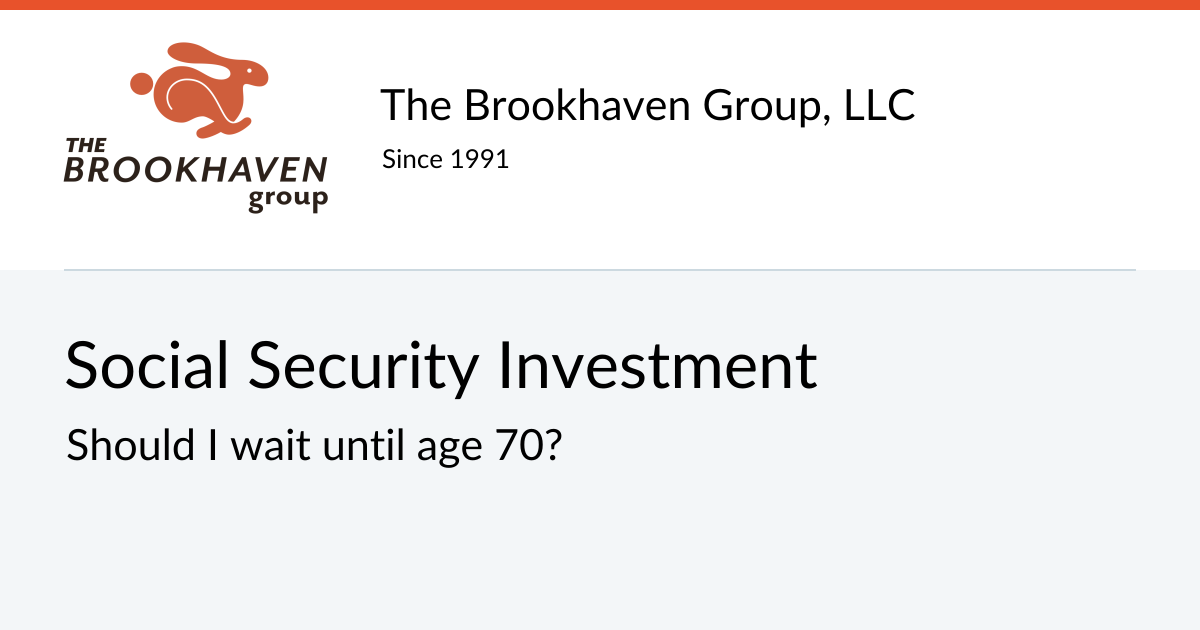
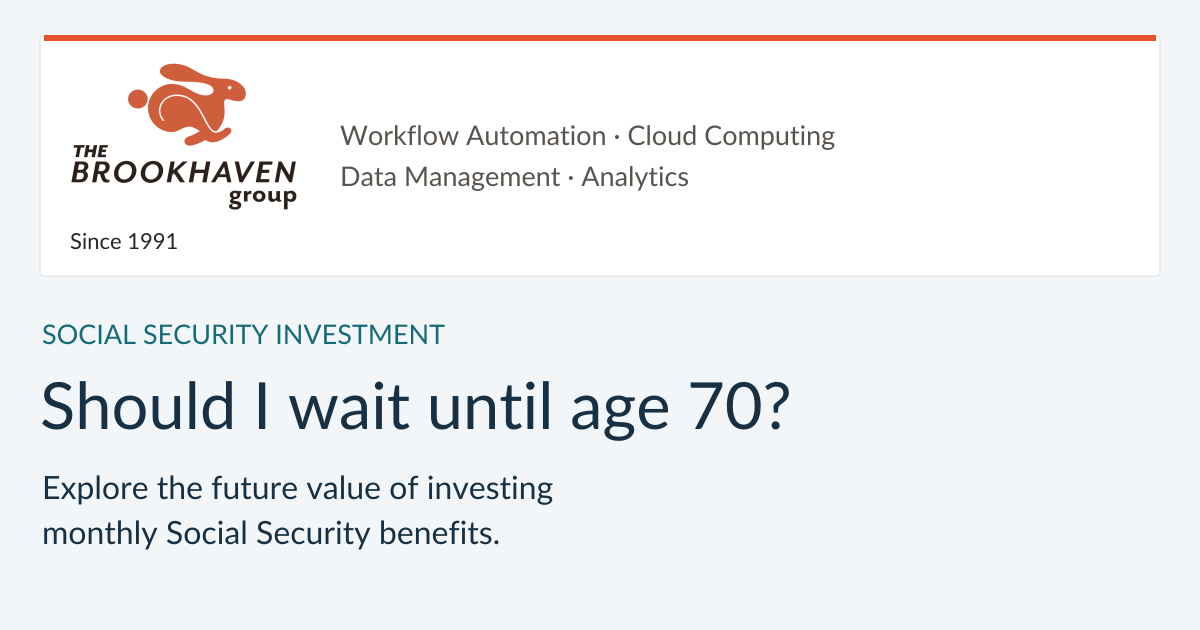
Fixing social preview

diff --git a/index.html b/index.html
@@ -11,7 +11,7 @@
   <meta property="og:site_name" content="The Brookhaven Group">
   <meta property="og:title" content="The Brookhaven Group, LLC">
   <meta property="og:description" content="Compare investing Social Security benefits starting at 67 versus 70. Explore before-tax and after-tax results with an interactive calculator and report.">
-  <meta property="og:image" content="https://thebrookhavengroup.github.io/ssa/web/social-preview.png">
+  <meta property="og:image" content="https://thebrookhavengroup.github.io/ssa/web/social-preview.png?v=2">
   <meta property="og:image:type" content="image/png">
   <meta property="og:image:width" content="1200">
   <meta property="og:image:height" content="630">
@@ -19,7 +19,7 @@
   <meta name="twitter:card" content="summary_large_image">
   <meta name="twitter:title" content="The Brookhaven Group, LLC">
   <meta name="twitter:description" content="Compare investing Social Security benefits starting at 67 versus 70. Explore before-tax and after-tax results with an interactive calculator and report.">
-  <meta name="twitter:image" content="https://thebrookhavengroup.github.io/ssa/web/social-preview.png">
+  <meta name="twitter:image" content="https://thebrookhavengroup.github.io/ssa/web/social-preview.png?v=2">
   <meta name="twitter:image:alt" content="The Brookhaven Group, LLC — Social Security Investment. Should I wait until age 70?">
   <link rel="stylesheet" href="web/style.css">
 </head>

diff --git a/README.md b/README.md
@@ -95,7 +95,7 @@ Licensed under the [MIT License](LICENSE).
 
 Copyright © 2026 The Brookhaven Group, LLC.
 
-To rebuild the 1200 × 630 social preview, install `sharp` and `opentype.js`
+To rebuild the 1200 × 630 social preview, install `sharp` and `opentype.js@1.3.4`
 outside the repository and run `scripts/render_social_preview.cjs` with
 `NODE_PATH` pointing to those dependencies and a path to Lato Regular TTF
 as its argument. The script uses `web/brookhaven-logo.png` and does not change
